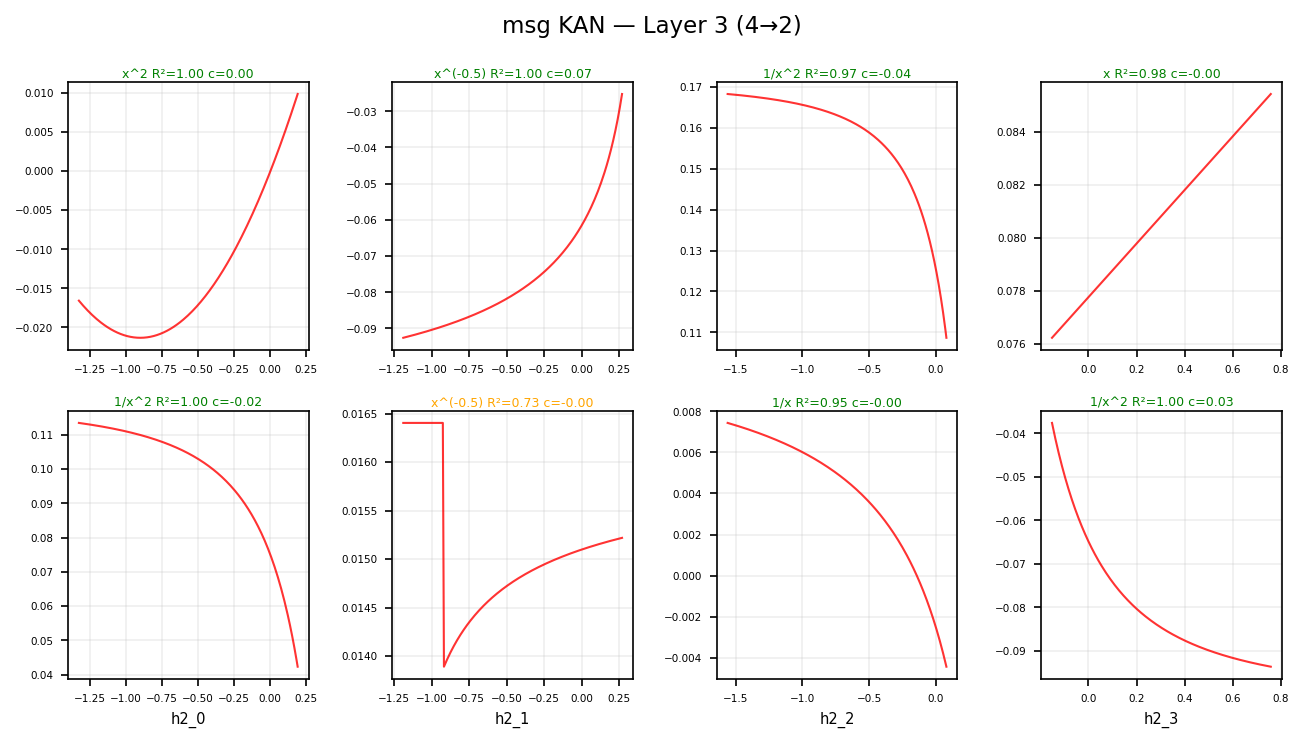
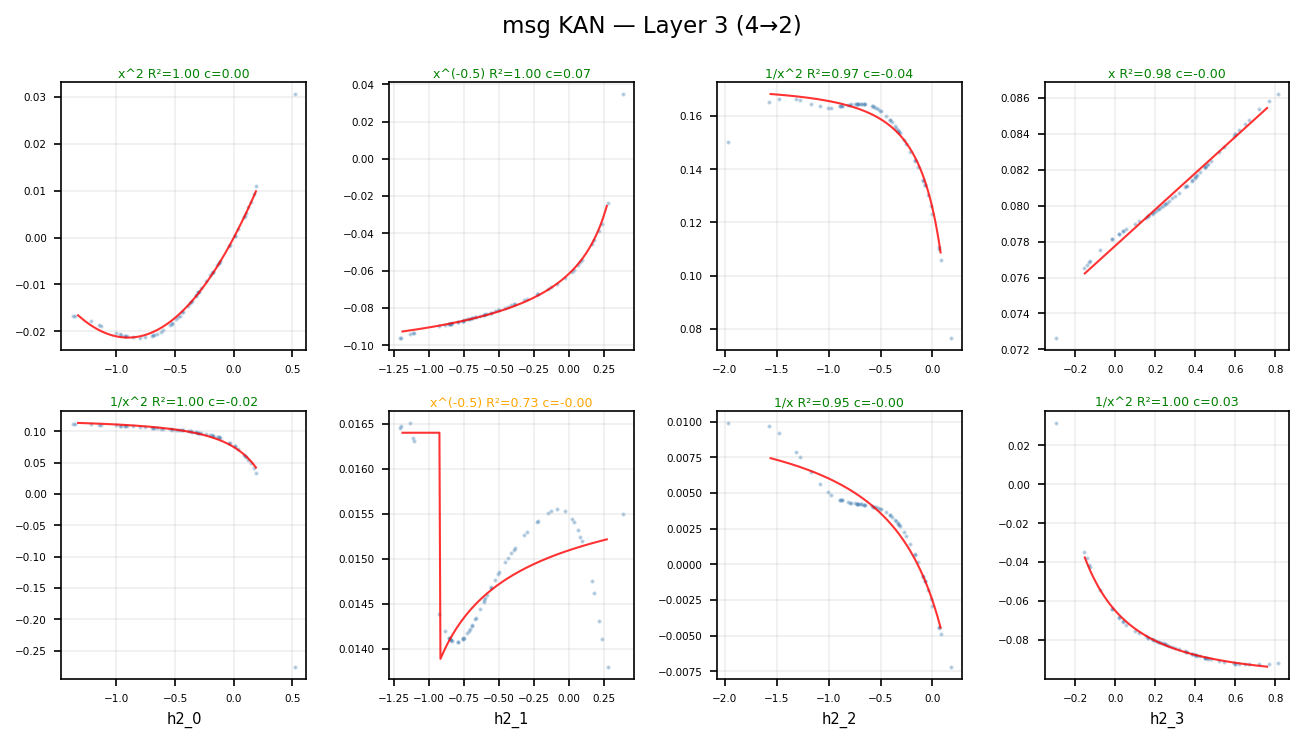
interpretability plots (not useful)

diff --git a/scripts/symbolic_composition.py b/scripts/symbolic_composition.py
@@ -281,7 +281,8 @@ def compose_manual(layer_results, var_names, out_names):
 
 # ── Plotting ──────────────────────────────────────────────────────
 
-def plot_spline_fits(kan, layer_results, input_names, tag, save_dir):
+def plot_spline_fits(kan, layer_results, input_names, tag, save_dir,
+                     deaffine=False):
     save_dir = Path(save_dir)
     save_dir.mkdir(parents=True, exist_ok=True)
 
@@ -296,15 +297,17 @@ def plot_spline_fits(kan, layer_results, input_names, tag, save_dir):
             continue
 
         postacts = None
-        if hasattr(layer, "postacts") and layer.postacts is not None:
-            postacts = layer.postacts.detach().cpu()
+        if hasattr(kan, "spline_postacts") and l < len(kan.spline_postacts):
+            postacts = kan.spline_postacts[l].detach().cpu()
 
         fig, axes = plt.subplots(
             out_dim, in_dim,
             figsize=(max(2.2 * in_dim, 6), 2.5 * out_dim),
             squeeze=False,
         )
-        fig.suptitle(f"{tag} KAN — Layer {l} ({in_dim}→{out_dim})", fontsize=11)
+        suffix = " [de-affined]" if deaffine else ""
+        fig.suptitle(f"{tag} KAN — Layer {l} ({in_dim}→{out_dim}){suffix}",
+                     fontsize=11)
 
         for i in range(in_dim):
             x_data = acts_in[:, i].detach().cpu()
@@ -320,19 +323,26 @@ def plot_spline_fits(kan, layer_results, input_names, tag, save_dir):
                 fn_name = info.get("fn", "?")
                 r2 = info.get("r2", 0.0)
                 affine = info.get("affine", [1, 0, 1, 0])
+                a_x, b_x, c, d = affine
+
+                skip_deaffine = deaffine and abs(c) < COEFF_DEAD
 
                 if postacts is not None and postacts.shape[2] > i and postacts.shape[1] > j:
                     x_pts = x_data.numpy()
                     y_pts = postacts[:, j, i].numpy()
+                    if deaffine and not skip_deaffine:
+                        y_pts = (y_pts - d) / c
                     n = min(500, len(x_pts))
                     idx = np.random.default_rng(0).choice(len(x_pts), n, replace=False)
                     ax.scatter(x_pts[idx], y_pts[idx], s=1, alpha=0.3, c="steelblue")
 
-                if fn_name != "0" and fn_name in SYMBOLIC_LIB:
-                    a_x, b_x, c, d = affine
+                if fn_name != "0" and fn_name in SYMBOLIC_LIB and not skip_deaffine:
                     torch_fn = SYMBOLIC_LIB[fn_name][0]
                     try:
-                        y_fit = c * torch_fn(a_x * x_plot + b_x) + d
+                        if deaffine:
+                            y_fit = torch_fn(a_x * x_plot + b_x)
+                        else:
+                            y_fit = c * torch_fn(a_x * x_plot + b_x) + d
                         ax.plot(x_plot.numpy(), y_fit.numpy(), "r-", linewidth=1, alpha=0.8)
                     except Exception:
                         pass
@@ -340,8 +350,7 @@ def plot_spline_fits(kan, layer_results, input_names, tag, save_dir):
                 color = "green" if r2 >= R2_THRESHOLD else ("orange" if r2 > 0.5 else "gray")
                 lbl = f"{fn_name} R²={r2:.2f}"
                 if fn_name != "0":
-                    _, _, c_coeff, _ = affine
-                    lbl += f" c={c_coeff:.2f}"
+                    lbl += f" c={c:.2f}"
                 ax.set_title(lbl, fontsize=6, color=color, pad=2)
 
                 if l == 0:
@@ -354,9 +363,10 @@ def plot_spline_fits(kan, layer_results, input_names, tag, save_dir):
                 ax.grid(True, alpha=0.2)
 
         plt.tight_layout()
-        fig.savefig(save_dir / f"{tag}_layer{l}.png", dpi=150, bbox_inches="tight")
+        name = f"{tag}_layer{l}_deaffine" if deaffine else f"{tag}_layer{l}"
+        fig.savefig(save_dir / f"{name}.png", dpi=150, bbox_inches="tight")
         plt.close(fig)
-        print(f"    Saved: {save_dir / f'{tag}_layer{l}.png'}")
+        print(f"    Saved: {save_dir / f'{name}.png'}")
 
 
 # ── Per-layer summary ─────────────────────────────────────────────
@@ -425,6 +435,8 @@ def analyze_model(name):
 
         # Plots
         plot_spline_fits(kan, layer_results, var_names, tag, out_dir)
+        plot_spline_fits(kan, layer_results, var_names, tag, out_dir,
+                         deaffine=True)
 
         # pykan composition
         formulas, err = compose_pykan(kan, var_names)
